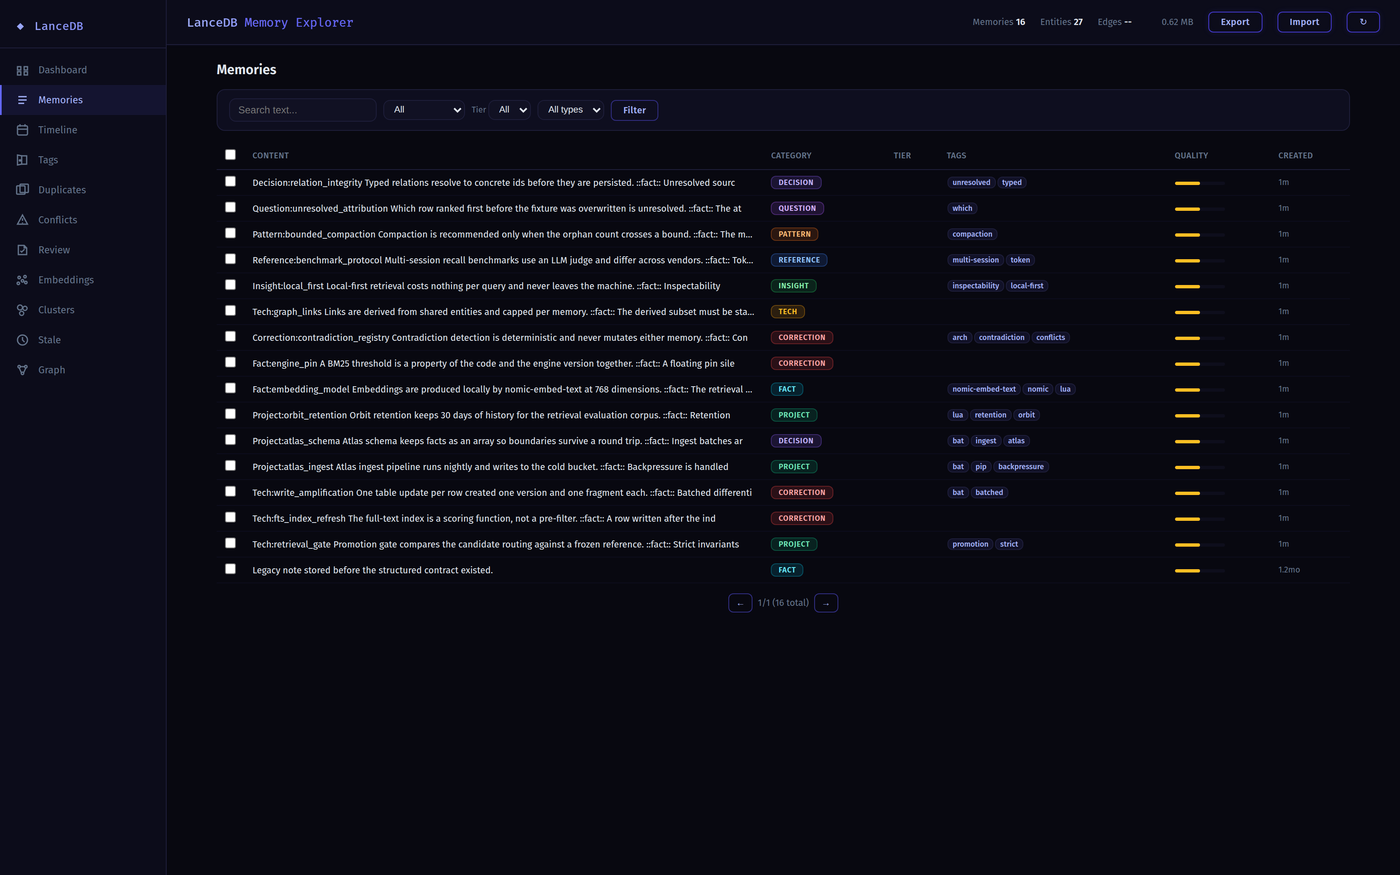
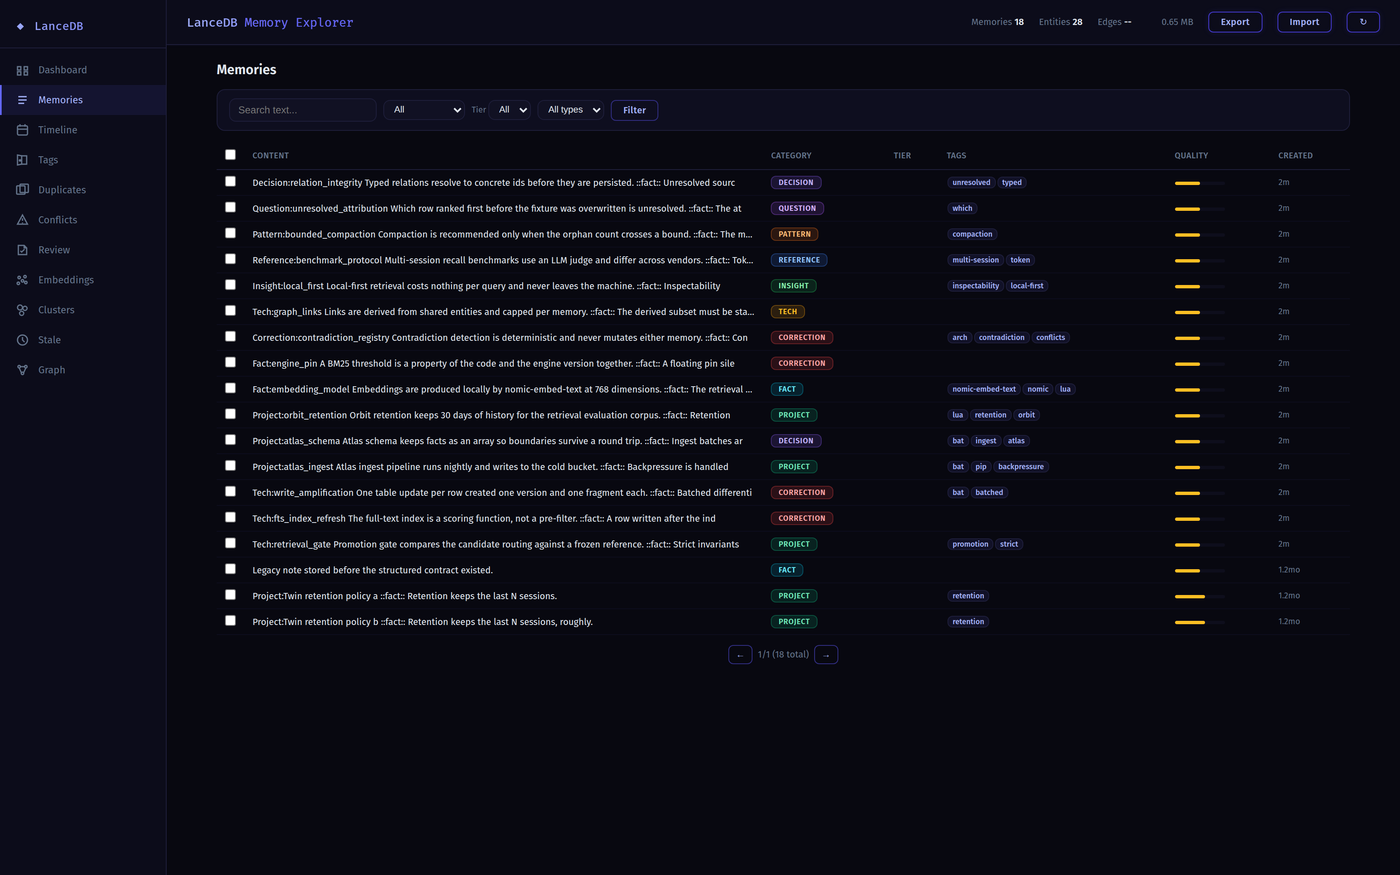
docs: rework the Visualizer section, add the missing Duplicates page
The screenshots were listed as a flat wall of images with the filenames in capture order
rather than tab order, and the Duplicates page had no screenshot at all.

- screenshots renumbered to follow the sidebar order (Duplicates is 05, not 04b)
- filenames now map 1:1 to the tabs, so a stale link is obvious
- full-width shots for Dashboard, Graph and Embeddings; grouped tables for the rest
- the page list is a table instead of a bare bullet list, and Review is in it
- the top summary said 10 pages and omitted Review; both corrected

Fixture grew two near-identical rows so Duplicates shows a real cosine group (96%)
instead of 'No duplicates', and 18 memories total.

diff --git a/README.md b/README.md
@@ -13,9 +13,9 @@ A complete memory system for Hermes Agent that persists across sessions:
   auto-tagging, quality decay, target-ID relations, local query routing, one-hop
   graph recall, and deterministic contradiction detection.
 - **Visualizer** (`server/` + `static/`) - lightweight web UI, normally run in
-  Docker on port 7777, with an optional systemd fallback on port 7778. 10 pages:
-  Dashboard, Memories, Timeline,
-  Tags, Duplicates, Conflicts, Embeddings, Clusters, Stale, and Graph.
+  Docker on port 7777, with an optional systemd fallback on port 7778. 11 pages:
+  Dashboard, Memories, Timeline, Tags, Duplicates, Conflicts, Review, Embeddings,
+  Clusters, Stale, and Graph. [See the screenshots](#visualizer).
 - **Scripts** (`scripts/`) - relation migration, contradiction backfill,
   re-embedding, duplicate consolidation, and verification.
 - **Docs** (`docs/`) - Setup guide and memory writing reference.
@@ -288,53 +288,66 @@ routed locally without an LLM call.
 
 ## Visualizer
 
-Lightweight web UI with 11 pages. Screenshots below are of a synthetic fixture
-(`docs/screenshots/`, 15 invented memories), never of a real database.
+A lightweight web UI with 11 pages, served on `127.0.0.1:7777`.
+
+> The screenshots below come from `docs/screenshots/`, captured against a **synthetic
+> fixture** of 18 invented memories. No screenshot contains data from a real database.
 
 ### Dashboard
+
+Counters, category and tier breakdown, tags, most-accessed memories.
+
 ![Dashboard](docs/screenshots/01-dashboard.png)
 
 ### Graph
-The graph opens on the **whole corpus**, drawing embedding-similarity edges only.
 
-![Graph, whole corpus](docs/screenshots/10-graph-full.png)
+The graph opens on the **whole corpus** and draws embedding-similarity edges only.
+Clicking a memory does not reload it: the sidebar opens over the graph and the node and
+its neighbours glow. `Escape`, the close button, or a click on empty canvas clears it.
 
-Selecting a memory does not reload the graph: the sidebar opens over it and the node and
-its neighbours glow. Escape, the close button or a click on empty canvas clears it.
+| Whole corpus | Memory selected |
+|---|---|
+| ![Graph, whole corpus](docs/screenshots/11-graph-full.png) | ![Graph with a memory selected](docs/screenshots/12-graph-selected.png) |
 
-![Graph with a memory selected](docs/screenshots/11-graph-selected.png)
+Grouping is switchable at any time: category hubs, entity hubs, or the raw embedding view.
 
-Grouping is switchable: by category hubs, by entity hubs, or the raw embedding view.
-
-![Graph grouped by category hubs](docs/screenshots/12-graph-hubs.png)
+![Graph grouped by category hubs](docs/screenshots/13-graph-hubs.png)
 
 ### Embeddings
-UMAP projection of every memory vector, plus a read-only local health inspection.
 
-![Embeddings and local health](docs/screenshots/07-embedding-health.png)
+UMAP projection of every memory vector, next to a read-only local health inspection.
 
-### Other pages
+![Embeddings and local health](docs/screenshots/08-embedding-health.png)
+
+### Browse and review
+
 | Memories | Timeline | Tags |
 |---|---|---|
 | ![Memories](docs/screenshots/02-memories.png) | ![Timeline](docs/screenshots/03-timeline.png) | ![Tags](docs/screenshots/04-tags.png) |
 
-| Conflicts | Review | Clusters | Stale |
-|---|---|---|---|
-| ![Conflicts](docs/screenshots/05-conflicts.png) | ![Review](docs/screenshots/06-review.png) | ![Clusters](docs/screenshots/08-clusters.png) | ![Stale](docs/screenshots/09-stale.png) |
+| Duplicates | Conflicts |
+|---|---|
+| ![Duplicates](docs/screenshots/05-duplicates.png) | ![Conflicts](docs/screenshots/06-conflicts.png) |
 
-Page list:
+| Review | Clusters | Stale |
+|---|---|---|
+| ![Review](docs/screenshots/07-review.png) | ![Clusters](docs/screenshots/09-clusters.png) | ![Stale](docs/screenshots/10-stale.png) |
 
-- **Dashboard** — total memories, category breakdown, tier distribution, top accessed
-- **Memories** — paginated list (20/page) with filters (category, type, tag, quality, date, search)
-- **Timeline** — memories grouped by day
-- **Tags** — all tags with counts, rename/merge/delete operations
-- **Duplicates** — near-duplicate groups by cosine similarity (threshold slider)
-- **Conflicts** — explicit same-subject claim contradictions, with open/resolved filtering
-- **Review** — bounded read-only consistency inbox
-- **Embeddings** — UMAP 2D projection of all memory vectors
-- **Clusters** — semantic clusters (threshold + min size controls)
-- **Stale** — old + low-quality memories (cleanup candidates)
-- **Graph** — whole corpus by default, embedding links, optional typed-relation overlay, hub grouping, freshness halo, tier filtering
+### Pages
+
+| Page | What it shows |
+|---|---|
+| **Dashboard** | totals, category breakdown, tier distribution, most-accessed memories |
+| **Memories** | paginated list (20/page), filters by category, type, tag, quality, date, and search |
+| **Timeline** | memories grouped by day |
+| **Tags** | every tag with its count, plus rename, merge and delete |
+| **Duplicates** | near-duplicate groups by cosine similarity, threshold slider |
+| **Conflicts** | same-subject claims that contradict each other, open and resolved |
+| **Review** | bounded read-only consistency inbox: format drift, contradictions, broken references |
+| **Embeddings** | UMAP 2D projection of all vectors + local health diagnostics |
+| **Clusters** | semantic clusters, with threshold and minimum-size controls |
+| **Stale** | old and low-quality memories, the cleanup candidates |
+| **Graph** | whole corpus by default, embedding links, optional typed-relation overlay, hub grouping, freshness halo, tier filter |
 
 ### API endpoints
 
